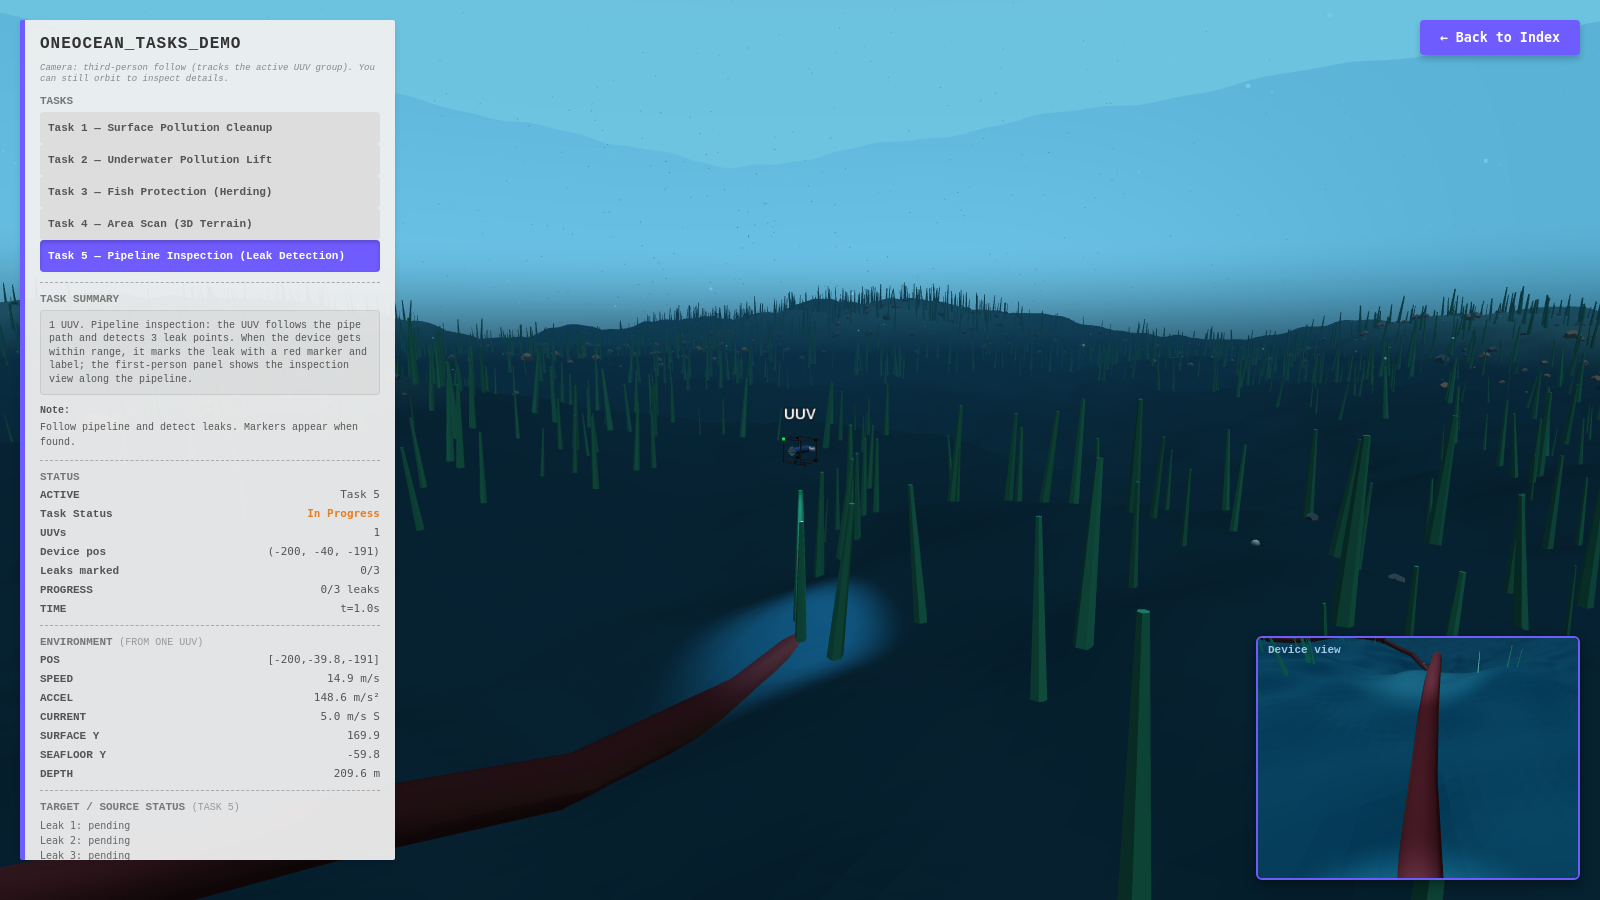
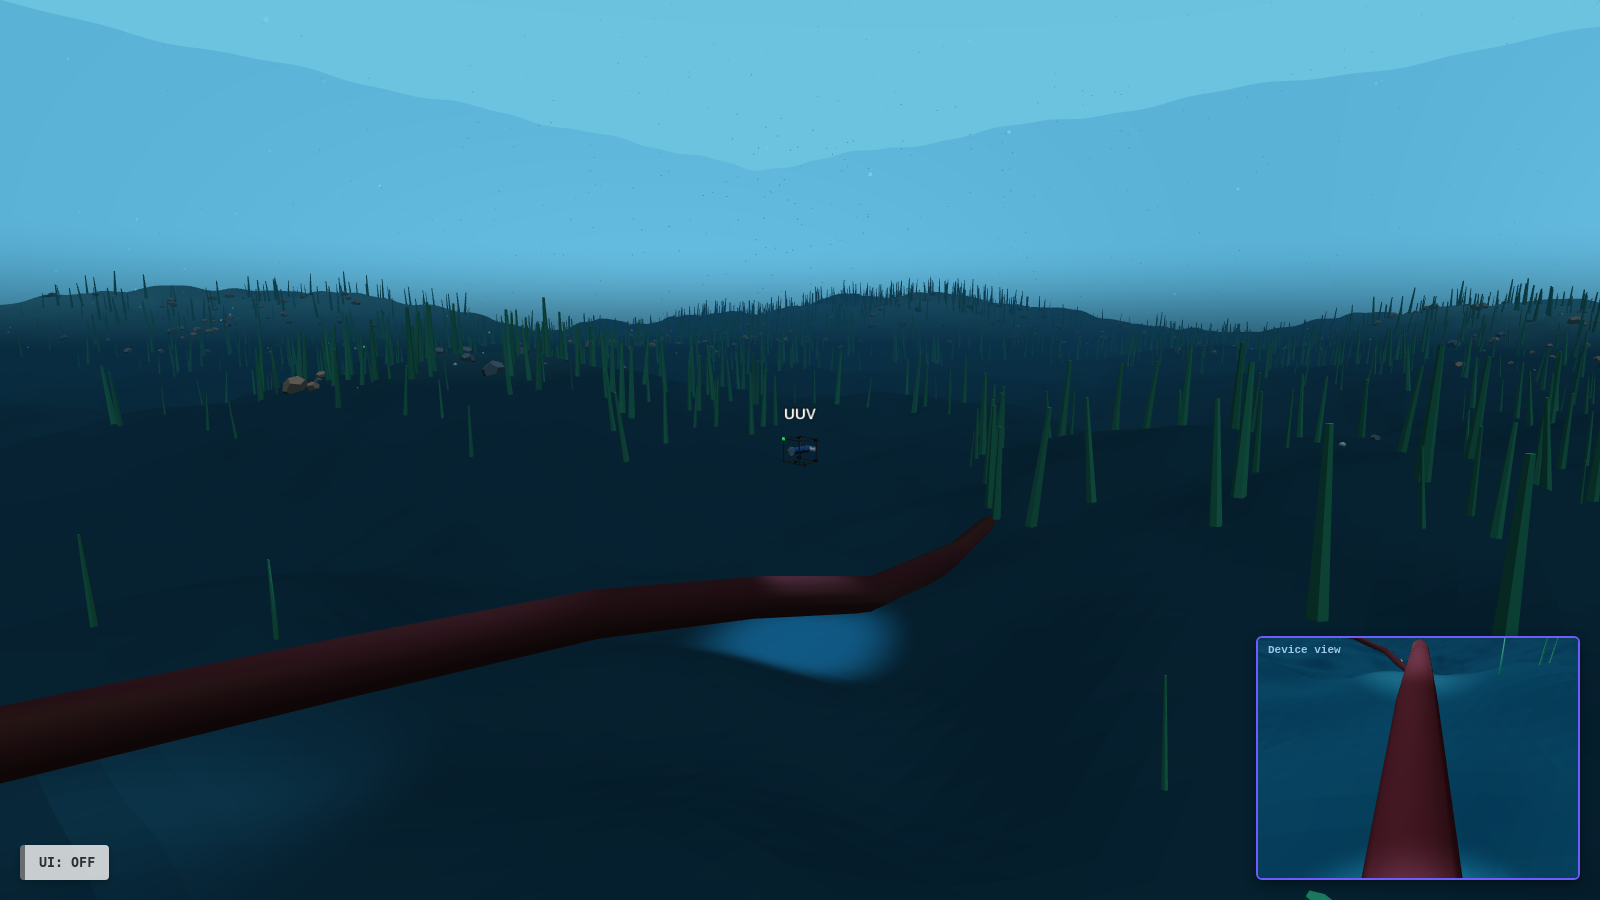
ui(tasks): add UI toggle and refresh screenshots

diff --git a/tasks.html b/tasks.html
@@ -91,6 +91,28 @@
             box-shadow: 0 4px 6px rgba(0,0,0,0.2);
         }
 
+        /* UI toggle (bottom-left). Default ON (sidebar + back button visible). */
+        #btn-ui-toggle {
+            position: fixed;
+            left: 20px;
+            bottom: 20px;
+            z-index: 250;
+            padding: 10px 14px;
+            background: rgba(240, 240, 240, 0.95);
+            color: #333;
+            border: none;
+            border-radius: 4px;
+            font-family: monospace;
+            font-weight: bold;
+            cursor: pointer;
+            box-shadow: 0 4px 6px rgba(0,0,0,0.2);
+            border-left: 5px solid #6f5cff;
+        }
+        #btn-ui-toggle.off {
+            opacity: 0.88;
+            border-left-color: #777;
+        }
+
         /* Optional task panels (Task 4/5) */
         #scan-panel, #device-view-panel, #device-grid-panel {
             position: fixed;
@@ -196,6 +218,7 @@
         <canvas id="device-grid-canvas"></canvas>
     </div>
 
+    <button id="btn-ui-toggle" title="Toggle UI">UI: ON</button>
     <button id="btn-back">&larr; Back to Index</button>
 
     <script src="https://cdnjs.cloudflare.com/ajax/libs/three.js/r128/three.min.js"></script>
@@ -2700,11 +2723,27 @@
         const btnTask3 = document.getElementById('btn-task3');
         const btnTask4 = document.getElementById('btn-task4');
         const btnTask5 = document.getElementById('btn-task5');
+        const btnUIToggle = document.getElementById('btn-ui-toggle');
         const btnBack = document.getElementById('btn-back');
         const scanPanelEl = document.getElementById('scan-panel');
         btnBack.addEventListener('click', () => location.href = 'index.html');
 
         let activeTask = 'TASK1';
+        let uiVisible = true;
+
+        function setUIVisible(v) {
+            uiVisible = !!v;
+            const uiPanel = document.getElementById('ui-panel');
+            if (uiPanel) uiPanel.style.display = uiVisible ? '' : 'none';
+            if (btnBack) btnBack.style.display = uiVisible ? '' : 'none';
+            if (btnUIToggle) {
+                btnUIToggle.textContent = uiVisible ? 'UI: ON' : 'UI: OFF';
+                btnUIToggle.classList.toggle('off', !uiVisible);
+            }
+        }
+
+        if (btnUIToggle) btnUIToggle.addEventListener('click', () => setUIVisible(!uiVisible));
+        setUIVisible(true);
 
         function setActiveButton(btn, active) {
             if (active) btn.classList.add('active');
